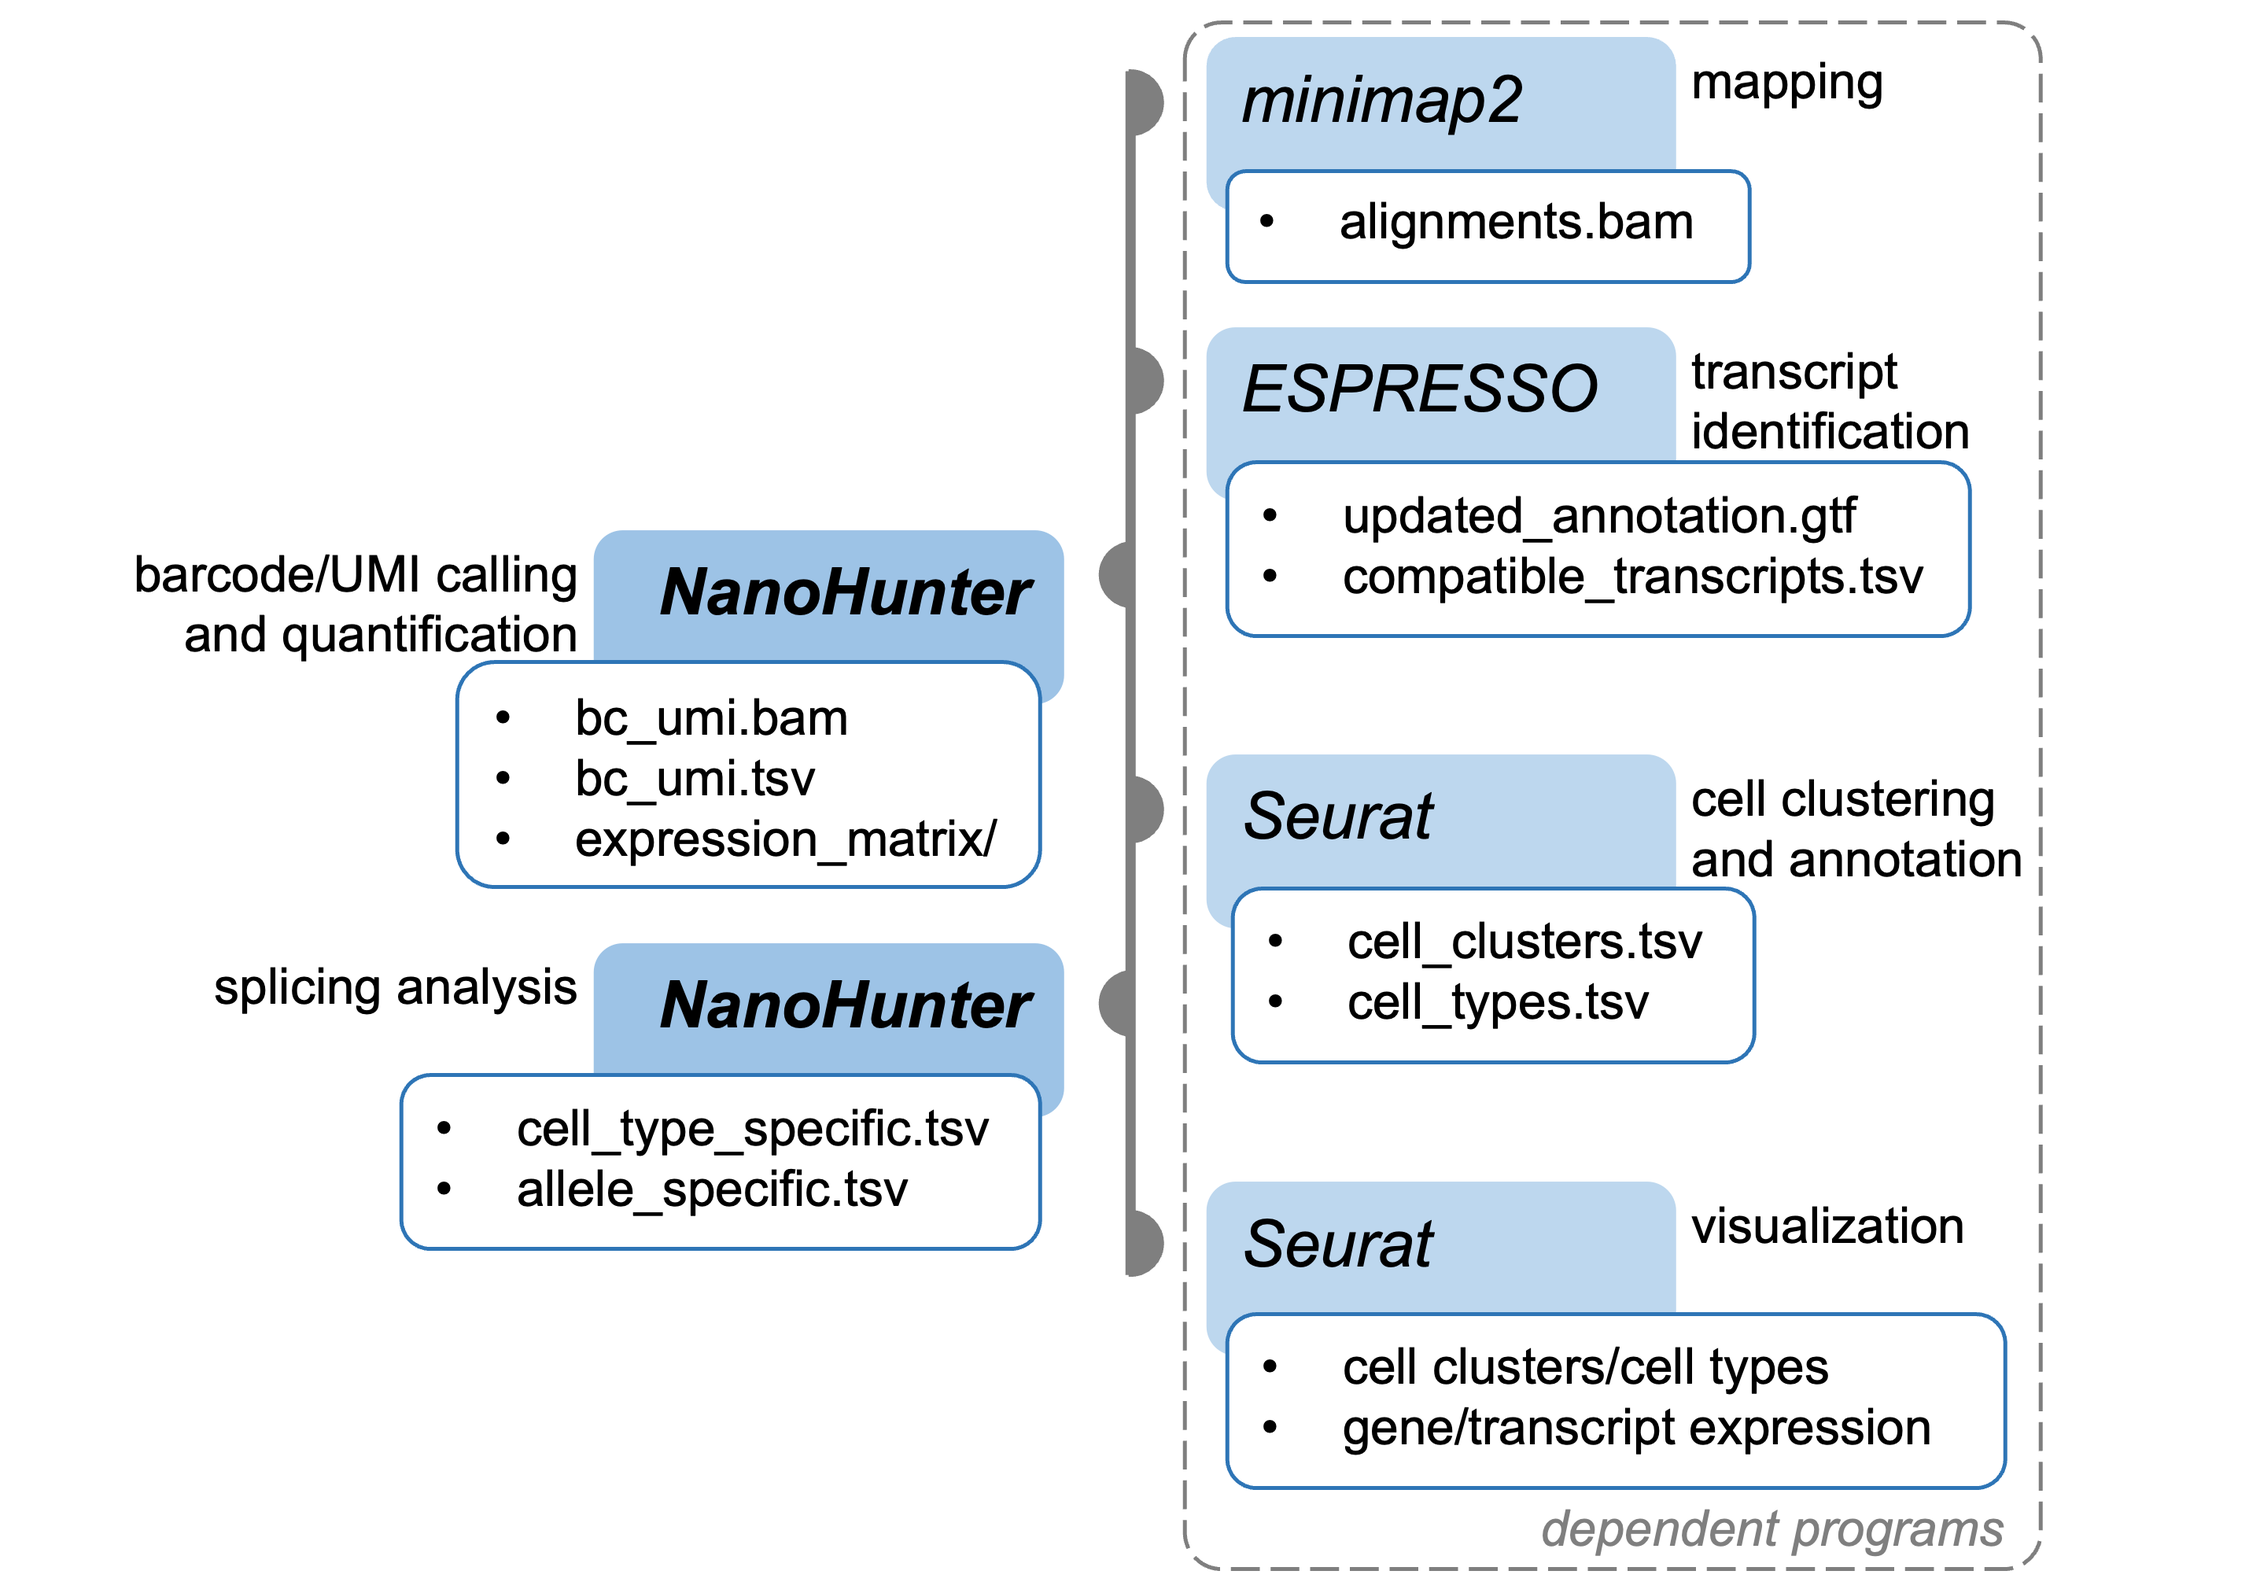
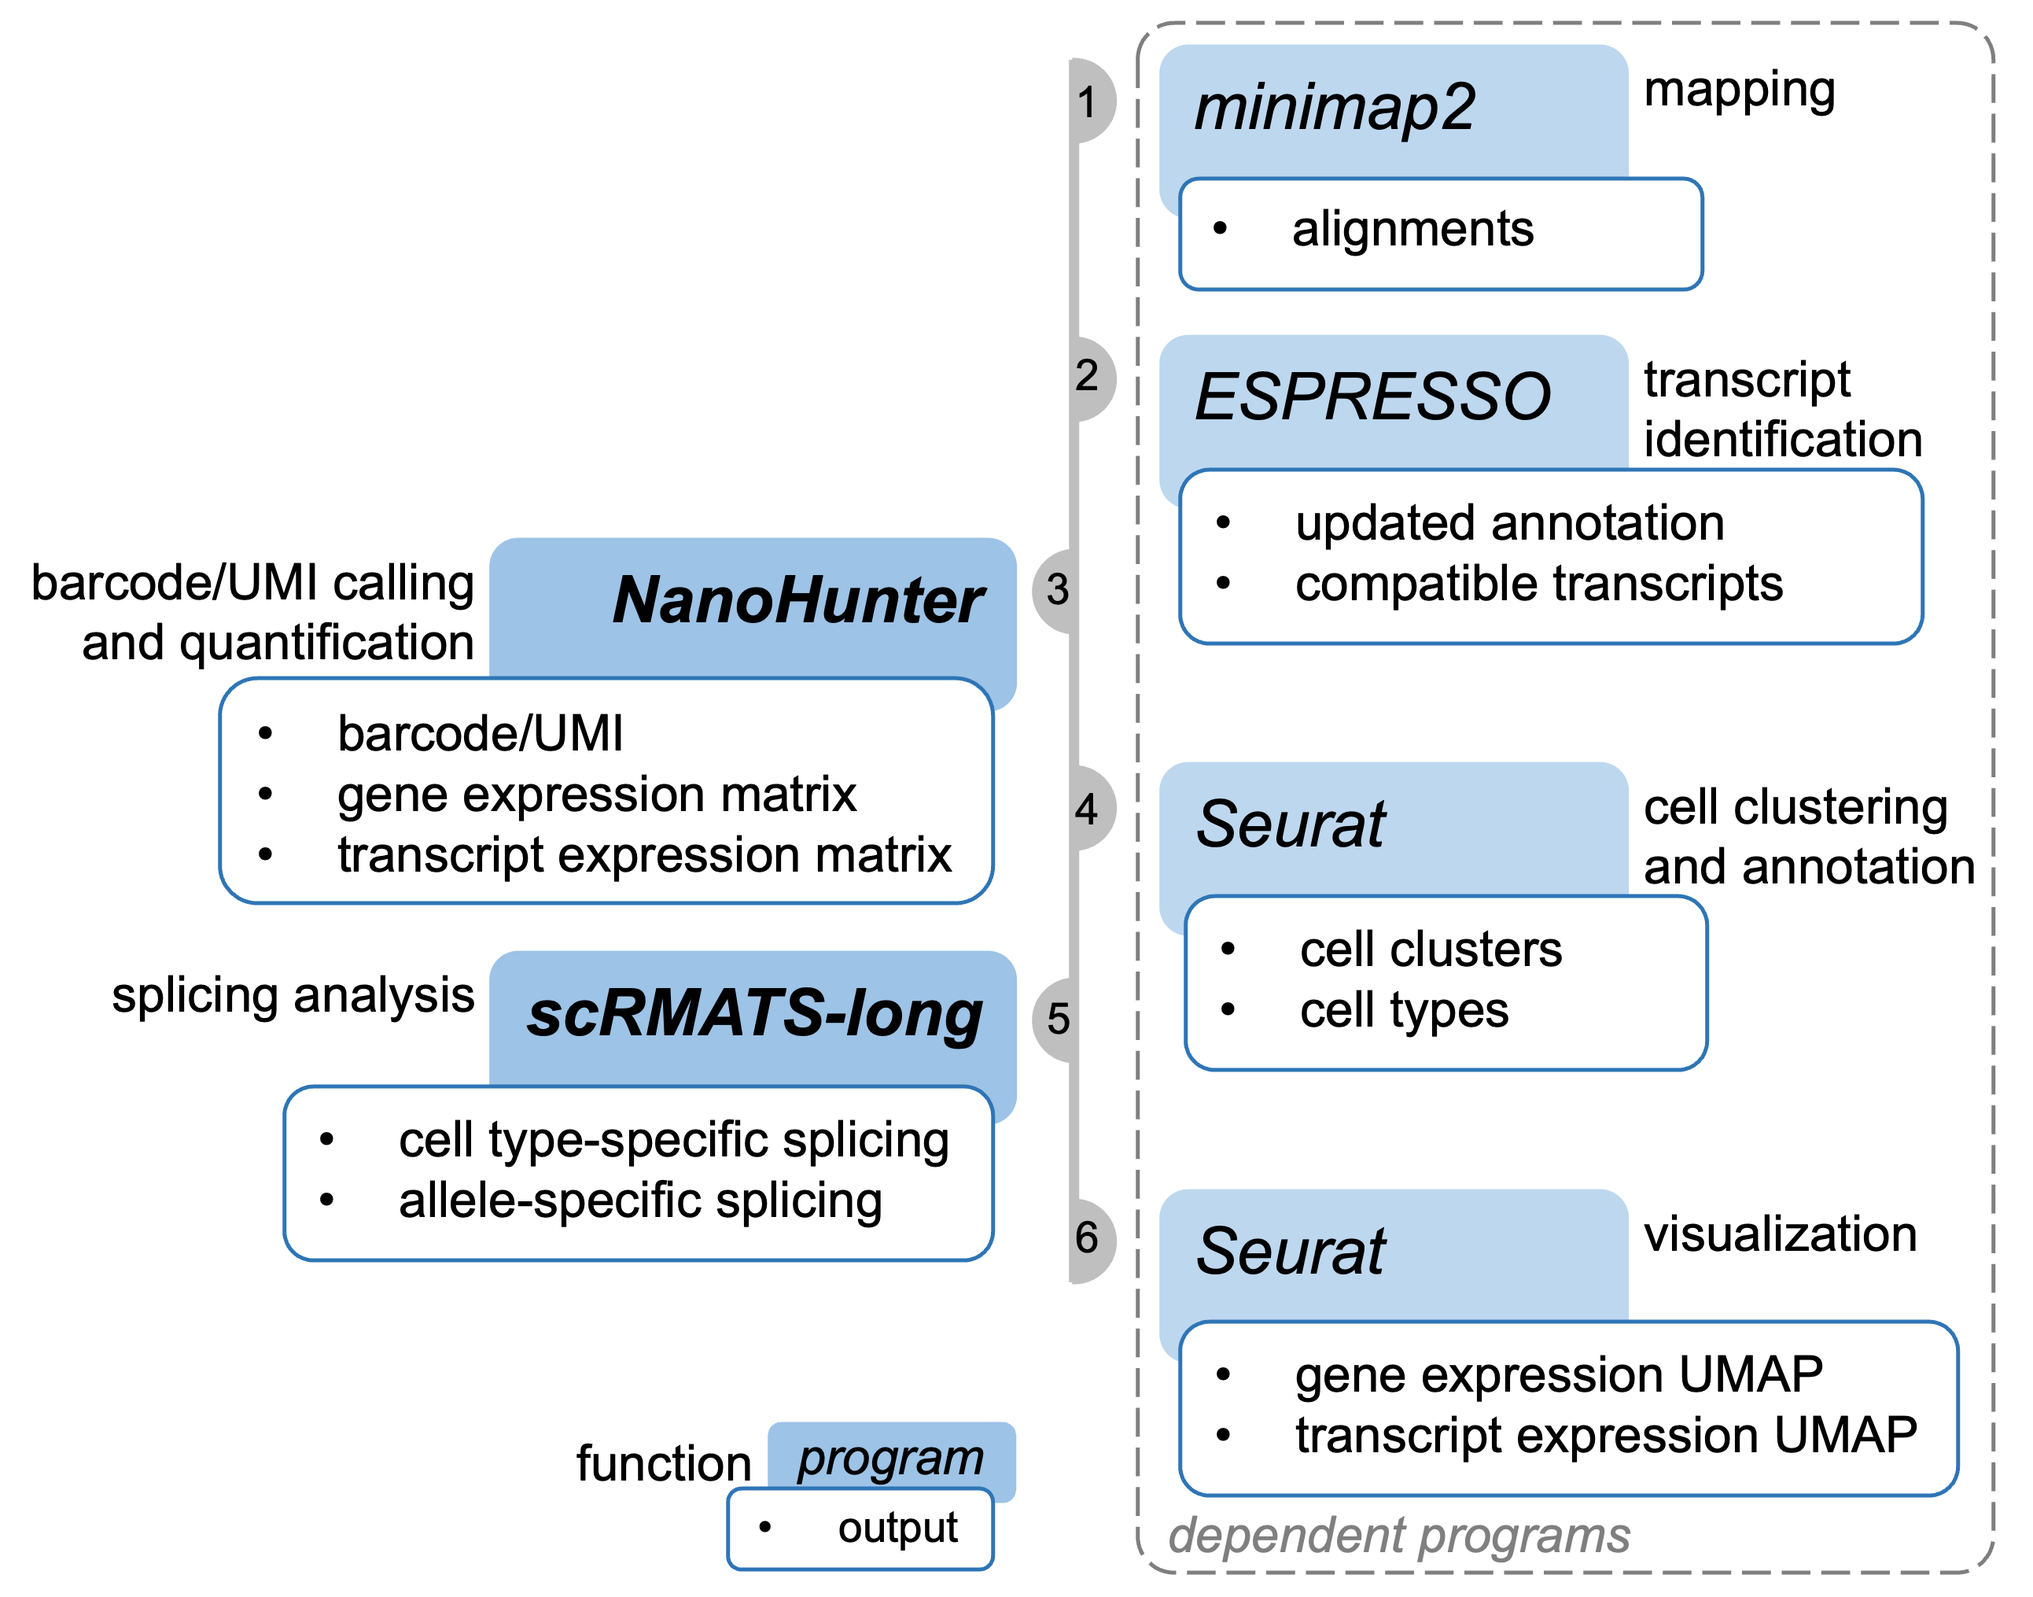
rename

Changed region(s): [[0.0, 0.0, 0.9903, 0.9956], [0.2785, 0.8711, 0.5261, 0.9956]]

diff --git a/nanohunter/__init__.py b/nanohunter/__init__.py
@@ -1,23 +1,17 @@
 import sys
 
-# from .utils import err_format_time, err_fatal_format_time
-# from .seq_utils import _bc_max_ed, _bc_len, _umi_len, get_mp_fetch_set
-# from .collect_candidate_bc import collect_cand_ref_bc
-# from .assign_bc import assign_ref_bc
-# from .parse_quant_file import get_read_to_trans, get_trans_to_gene
-
 __program__ = 'nanohunter'
 __module__ = 'nanohunter'
-__scripts__ = ['nh_cell_type_specific_splicing',
-               'nh_allele_specific_splicing',
-               'nh_bulk_allele_specific_splicing',
-               'nh_gene_with_gwas_disease',
-               'nh_make_expression_matrix',
-               'nh_split_bam_by_cluster']
+__scripts__ = ['cell_type_specific_splicing',
+               'allele_specific_splicing',
+               'bulk_allele_specific_splicing',
+               'gene_with_gwas_disease',
+               'make_expression_matrix',
+               'split_bam_by_cluster']
 __version__ = '1.0.0.beta3'
 __author__  = 'Yan Gao'
 __email__   = 'gaoy1@chop.edu'
 __description__ = 'long-read single-cell RNA-seq analysis'
-__url__ = 'https://github.com/Xinglab/NanoHunter'
+__url__ = 'https://github.com/Xinglab/scRMATS-long'
 __cmd__     = ' '.join(sys.argv)
 

diff --git a/nanohunter/main.py b/nanohunter/main.py
@@ -14,7 +14,7 @@ from .seq_utils import collect_ref_barcodes, collect_mp_fetch_set
 from .collect_candidate_bc import collect_cand_ref_bc
 from .assign_bc import assign_ref_bc
 from .parse_quant_file import collect_read_to_trans, collect_trans_to_gene
-from .nh_make_expression_matrix import make_10X_matrix
+from .make_expression_matrix import make_10X_matrix
 
 
 def parser_argv():

diff --git a/nanohunter/matrix_to_clu_wise_expression.py b/nanohunter/matrix_to_clu_wise_expression.py
@@ -2,7 +2,7 @@ import sys
 import os
 import gzip
 from collections import defaultdict as dd
-from nh_cell_type_specific_splicing import *
+from NanoHunter.nanohunter.cell_type_specific_splicing import *
 
 def write_gene_to_clu_cnt(gene_clu_cnt, gene_clu_pct, all_clus, out_prefix):
     gene_cnt_out = out_prefix + '.clu_wise_gene_cnt.tsv'

diff --git a/nanohunter/make_expression_matrix.py b/nanohunter/make_expression_matrix.py
@@ -4,7 +4,7 @@ import os
 import gzip
 from scipy.sparse import csr_matrix  # for sparse matrix
 from collections import defaultdict as dd
-from .nh_allele_specific_splicing import get_reads_to_hap
+from .allele_specific_splicing import get_reads_to_hap
 
 from .__init__ import __version__
 from .__init__ import __program__

diff --git a/make_mtx.py b/make_mtx.py
@@ -1,3 +1,3 @@
-from nanohunter import nh_make_expression_matrix
+from nanohunter import make_expression_matrix
 
-nh_make_expression_matrix.main()
+make_expression_matrix.main()

diff --git a/README.md b/README.md
@@ -1,4 +1,4 @@
-# NanoHunter: single-cell long-read RNA-seq analysis package
+# scRMATS-long: single-cell long-read RNA-seq analysis package
 
 <!-- [![Latest Release](https://img.shields.io/github/release/xinglab/NanoHunter.svg?label=Release)](https://github.com/xinglab/NanoHunter/releases/latest) -->
 <!-- [![Github All Releases](https://img.shields.io/github/downloads/xinglab/NanoHunter/total.svg?label=Download)](https://github.com/xinglab/NanoHunter/releases) -->
@@ -11,20 +11,18 @@
 
 - First version
 
-## What is NanoHunter
-NanoHunter is an analysis pipeline designed for long-read single-cell RNA-seq data.
+## What is scRMATS-long
+scRMATS-long is an analysis pipeline designed for long-read single-cell RNA-seq data.
 It mainly consists of two parts:
-1. Barcode/UMI calling and gene/transcript quantification
-2. Cell type-specific & allele-specific splicing analysis
+1. NanoHunter: a standalone module for barcode/UMI calling and gene/transcript quantification
+2. scRMATS-long: cell type-specific & allele-specific splicing analysis
 
 <img src="figs/nanohunter-github-workflow.png" width="70%">
 
-NanoHunter is very fast, the barcode/UMI calling step usually takes ~1 hour for 10 million long reads.
-
 ## Table of Contents
-- [NanoHunter: single-cell long-read RNA-seq analysis package](#nanohunter-single-cell-long-read-rna-seq-analysis-package)
+- [scRMATS-long: single-cell long-read RNA-seq analysis package](#scrmats-long-single-cell-long-read-rna-seq-analysis-package)
   - [Updates (v1.0.0)](#updates-v100)
-  - [What is NanoHunter](#what-is-nanohunter)
+  - [What is scRMATS-long](#what-is-scrmats-long)
   - [Table of Contents](#table-of-contents)
   - [Installation](#installation)
     - [Operating system and python version](#operating-system-and-python-version)
@@ -57,7 +55,7 @@ NanoHunter is very fast, the barcode/UMI calling step usually takes ~1 hour for 
 
 ## Installation
 ### Operating system and python version
-NanoHunter was written in python3 and tested on Linux/Unix systems, so it may not work well with python2 and/or other systems(Windows/Mac).
+scRMATS-long was written in python3 and tested on Linux/Unix systems, so it may not work well with python2 and/or other systems(Windows/Mac).
 
 <!-- 
 ### <a name="dep"></a>~~Dependencies~~ installed via conda
@@ -81,8 +79,8 @@ NanoHunter was written in python3 and tested on Linux/Unix systems, so it may no
 
 ### Via conda (install locally for now)
 ```
-git clone git@github.com:Xinglab/NanoHunter.git
-cd NanoHunter
+git clone git@github.com:Xinglab/scRMATS-long.git
+cd scRMATS-long
 conda create --prefix ./conda_env
 conda activate ./conda_env
 conda install -c conda-forge -c bioconda python=3.8 --file conda_requirements.txt
@@ -96,13 +94,13 @@ conda activate nanohunter
 
 ### Via pip (not work yet)
 ```
-pip install nanohunter
+pip install scrmats-long
 ```
 
 ### From source files
 ```
-git clone git@github.com:Xinglab/NanoHunter.git
-cd NanoHunter && pip install .
+git clone git@github.com:Xinglab/scRMATS-long.git
+cd scRMATS-long && pip install .
 ```
 
 ## (Optional) Consensus calling for RCA single-cell long-read data with [TideHunter](https://github.com/yangao07/TideHunter)(≥1.5.4)
@@ -232,7 +230,7 @@ For example, for human peripheral blood mononuclear cells (PBMC), the clustering
 We provide the [R script](scripts_for_paper/README.md#run_azimuth_pbmcr) for human PBMC data. For data from other species/tissues, this needs to be done manually by users.
 
 ## 3. Cell type-specific splicing analysis
-NanoHunter performs ***pairwise comparison*** to identify differntially spliced genes/transcripts between each two cell types/clusters.
+scRMATS-long performs ***pairwise comparison*** to identify differntially spliced genes/transcripts between each two cell types/clusters.
 ### 3.1 Input
 * Required
   * `expression_matrix/transcript`: transcript count matrix directory, generated by NanoHunter
@@ -244,9 +242,9 @@ NanoHunter performs ***pairwise comparison*** to identify differntially spliced 
   * list of genes of interest. If provided, all genes will still be processed, but only differentially spliced genes that are in this list will be output
 ### 3.2 Command
 ```
-nh_cell_type_specific_splicing expression_matrix/transcript \
-                               bc_to_cell_type.tsv            \
-                               out_prefix
+cell_type_specific_splicing expression_matrix/transcript \
+                            bc_to_cell_type.tsv          \
+                            out_prefix
 ```
 
 ### 3.3 Output
@@ -267,7 +265,7 @@ Example of `*_cell_spliced_transcripts.tsv`:
 
 
 ## 4. Allele-specific splicing analysis
-With additional whole-genome sequencing data, NanoHunter can identify allele-specific splicing within each cell type.
+With additional whole-genome sequencing data, scRMATS-long can identify allele-specific splicing within each cell type.
 The allele-specific splicing analysis mainly consists of three steps:
 1. Phase long reads with whatshap
 2. Identify allele-specific spliced genes/transcripts within each cell type
@@ -304,10 +302,10 @@ whatshap haplotag wgs_phased.vcf bc_umi_sorted.bam \
 
 * Command
 ```
-nh_allele_specific_splicing bc_umi.tsv \
-                            bc_to_cell_type.tsv \
-                            hap_list.tsv \
-                            output_prefix
+allele_specific_splicing bc_umi.tsv \
+                         bc_to_cell_type.tsv \
+                         hap_list.tsv \
+                         output_prefix
 
 ```
 * Output
@@ -326,7 +324,7 @@ Example of `*_allele_spliced_transcripts.tsv`:
 
 ### 4.3 Identify disease-associated GWAS SNPs from allele-specific spliced genes
 * Input
-  * `*_allele_spliced_genes.tsv`: allele-specific spliced genes, generated by [nh_allele_specific_splicing](#42-identifiy-allele-specific-splicing)
+  * `*_allele_spliced_genes.tsv`: allele-specific spliced genes, generated by [allele_specific_splicing](#42-identifiy-allele-specific-splicing)
   * `wgs_phased.vcf`: WGS phased VCF file, generated from WGS short-read data using [GATK](https://gatk.broadinstitute.org/hc/en-us) and [SHAPEIT](https://odelaneau.github.io/shapeit5/)
   * `annotation.gtf`: annotation GTF file
   * `gwas_catalog_efo.tsv`: GWAS catalog database with EFO term
@@ -334,12 +332,12 @@ Example of `*_allele_spliced_transcripts.tsv`:
 
 * Command
 ```
-nh_gene_with_gwas_disease -g allele_spliced_genes.tsv \
-                          annotation.gtf       \
-                          wgs_phased.vcf       \
-                          gwas_catalog_efo.tsv \
-                          ld.duckdb            \
-                          output_prefix
+gene_with_gwas_disease -g allele_spliced_genes.tsv \
+                       annotation.gtf       \
+                       wgs_phased.vcf       \
+                       gwas_catalog_efo.tsv \
+                       ld.duckdb            \
+                       output_prefix
 ```
 
 * Output
@@ -364,22 +362,22 @@ Example of `*_allele_spliced_gene_gwas_ld/gene.ld`:
 |rs3865444| 1.0| 0.326844| 1.0| 0.327703| 0.891224| 0.967195| 0.887773| 0.881092| H2| chr19| 51224706| gwas| Alzheimer disease| Neurological disorder| 2e-09
 
 ## 5. Visualization
-After obtaining a list of genes/transcripts of interest (cell-type-specific splicing/allele-specific spciling), NanoHunter also offers visualization of your results in the single-cell UMAP space, simlar to the plots from Seurat R package.
+Given genes/transcripts of interest (cell-type-specific splicing/allele-specific spciling), scRMATS-long also offers visualization of your results in the single-cell UMAP space, based on the Seurat R package.
 
 ```
 # gene/transcript expression folder generated by NanoHunter
 gene_mtx <- "output_dir/expression_matrix/gene"
 transcript_mtx <- "output_dir/expression_matrix/transcript"
 # script for UMAP plot
-source("nanohunter_visualization.R)
+source("visualization.R)
 ```
 
 ### 1. UMAP plot of gene VIM and EPCAM
 ```
-nanohunter_umap_plot(gene_mtx_dir = gene_mtx,
-                     # `feature_mtx_dir` needs to be only one folder/object or same size as `feature_list`
-                     feature_mtx_dir = gene_mtx,
-                     feature_list = c("VIM", "EPCAM"))
+scrmats_long_umap_plot(gene_mtx_dir = gene_mtx,
+                       # `feature_mtx_dir` needs to be only one folder/object or same size as `feature_list`
+                       feature_mtx_dir = gene_mtx,
+                       feature_list = c("VIM", "EPCAM"))
 ```
 
 <img src="figs/PGmix_VIM_EPCAM_gene_umap.png" width="40%">
@@ -387,20 +385,20 @@ nanohunter_umap_plot(gene_mtx_dir = gene_mtx,
 
 ### 2. UMAP plot of CD44 transcripts
 ```
-nanohunter_umap_plot(gene_mtx_dir = gene_mtx,
-                     # `feature_mtx_dir` needs to be only one folder/object or same size as `feature_list`
-                     feature_mtx_dir = transcript_mtx,
-                     feature_list = c("ENST00000433892", "ENST00000263398"))
+scrmats_long_umap_plot(gene_mtx_dir = gene_mtx,
+                       # `feature_mtx_dir` needs to be only one folder/object or same size as `feature_list`
+                       feature_mtx_dir = transcript_mtx,
+                       feature_list = c("ENST00000433892", "ENST00000263398"))
 ```
 
 <img src="figs/PGmix_CD44_transcripts_umap.png" width="40%">
 
 ### 3. UMAP plot of both CD44 gene and transcripts
 ```
-nanohunter_umap_plot(gene_mtx_dir = gene_mtx,
-                     # `feature_mtx_dir` needs to be only one folder/object or same size as `feature_list`
-                     feature_mtx_dir = c(gene_mtx, transcript_mtx, transcript_mtx),
-                     feature_list = c("CD44", "ENST00000433892", "ENST00000263398"))
+scrmats_long_umap_plot(gene_mtx_dir = gene_mtx,
+                       # `feature_mtx_dir` needs to be only one folder/object or same size as `feature_list`
+                       feature_mtx_dir = c(gene_mtx, transcript_mtx, transcript_mtx),
+                       feature_list = c("CD44", "ENST00000433892", "ENST00000263398"))
 ```
 
 <img src="figs/PGmix_CD44_gene_transcripts_umap.png" width="60%">
@@ -411,8 +409,8 @@ Note that, for `gene_mtx_dir` and `feature_mtx_dir`, you can also provide with S
 gene_obj = make_seurat_obj(gene_mtx)
 transcript_obj = make_seurat_obj(transcript_mtx)
 
-nanohunter_umap_plot(gene_mtx_dir = gene_obj,
-                     # `feature_mtx_dir` needs to be only one folder/object or same size as `feature_list`
-                     feature_mtx_dir = c(gene_obj, transcript_obj, transcript_obj),
-                     feature_list = c("CD44", "ENST00000433892", "ENST00000263398"))
+scrmats_long_umap_plot(gene_mtx_dir = gene_obj,
+                       # `feature_mtx_dir` needs to be only one folder/object or same size as `feature_list`
+                       feature_mtx_dir = c(gene_obj, transcript_obj, transcript_obj),
+                       feature_list = c("CD44", "ENST00000433892", "ENST00000263398"))
 ```
